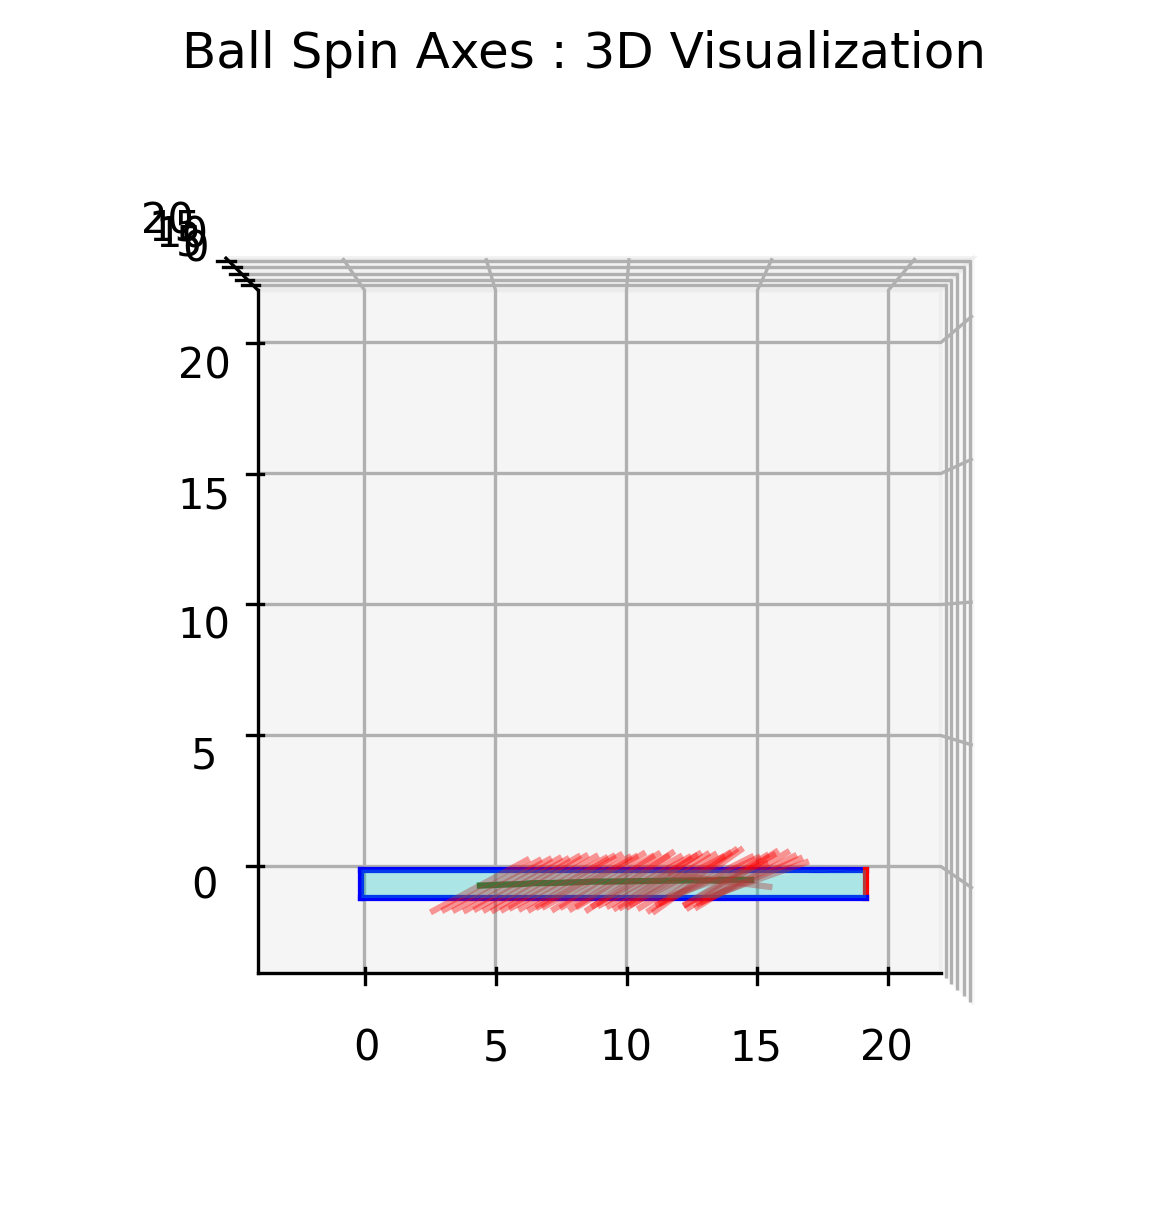
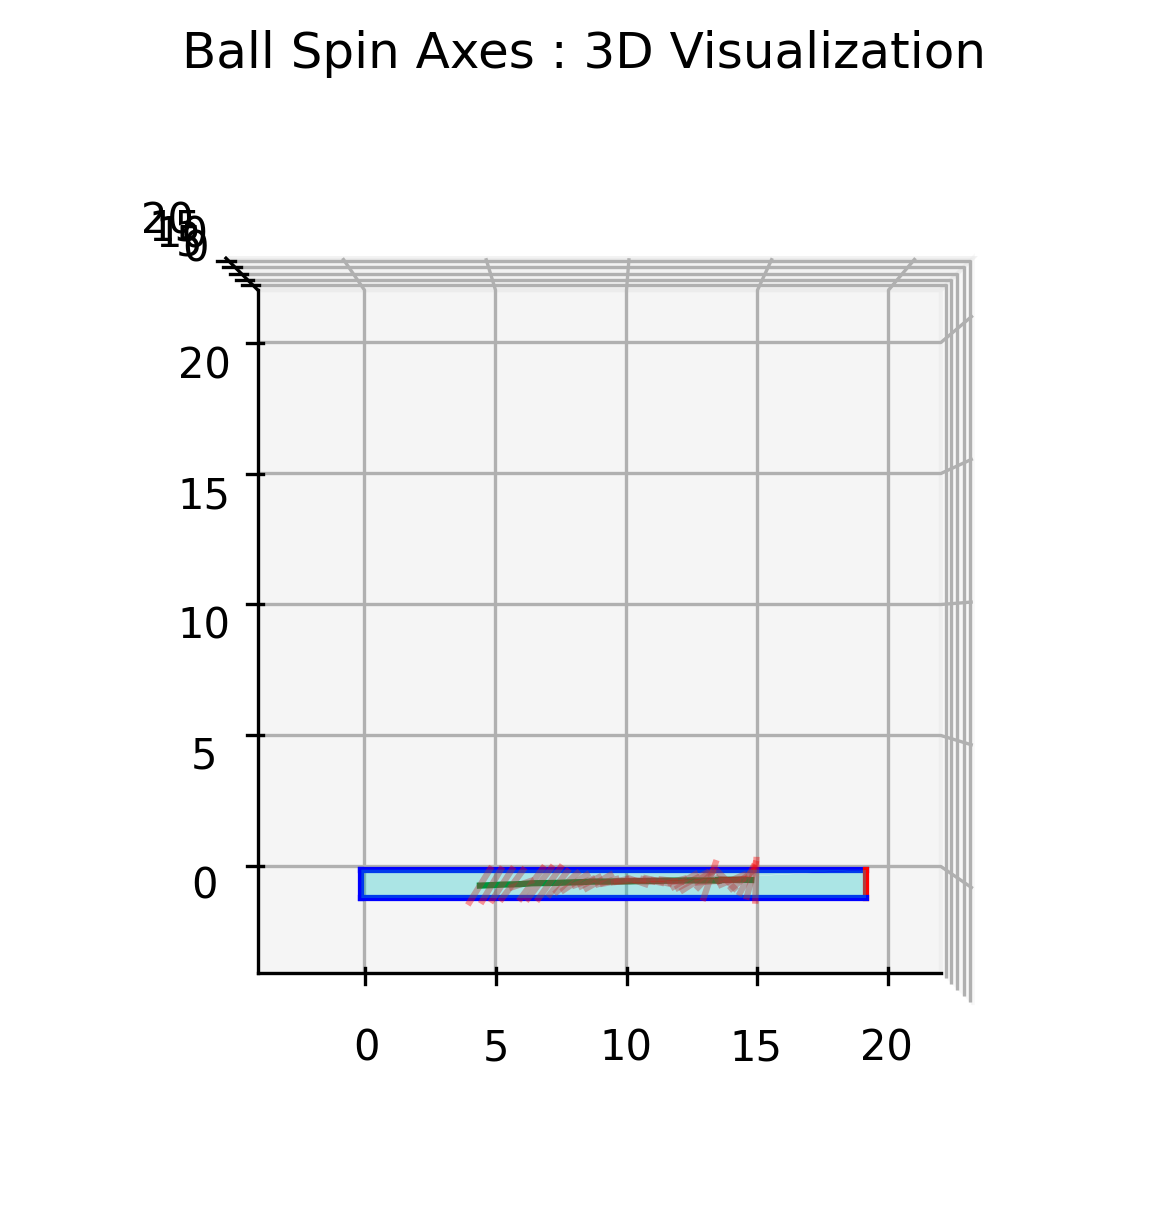
adjusted rotation

Changed region(s): [[0.3699, 0.6791, 0.7089, 0.7409]]

diff --git a/src/pipeline/pipes/ball_motion.py b/src/pipeline/pipes/ball_motion.py
@@ -145,6 +145,9 @@ class SpinBall(Pipe):
                             else:
                                 avg_axis = np.array([0, 0, 1])
 
+                            avg_axis = view.camera.rotation.T @ avg_axis
+                            avg_axis /= np.linalg.norm(avg_axis)
+
                             axis_points[view.camera.name].append(avg_axis)
 
                             # Compute weighted average spin rate
